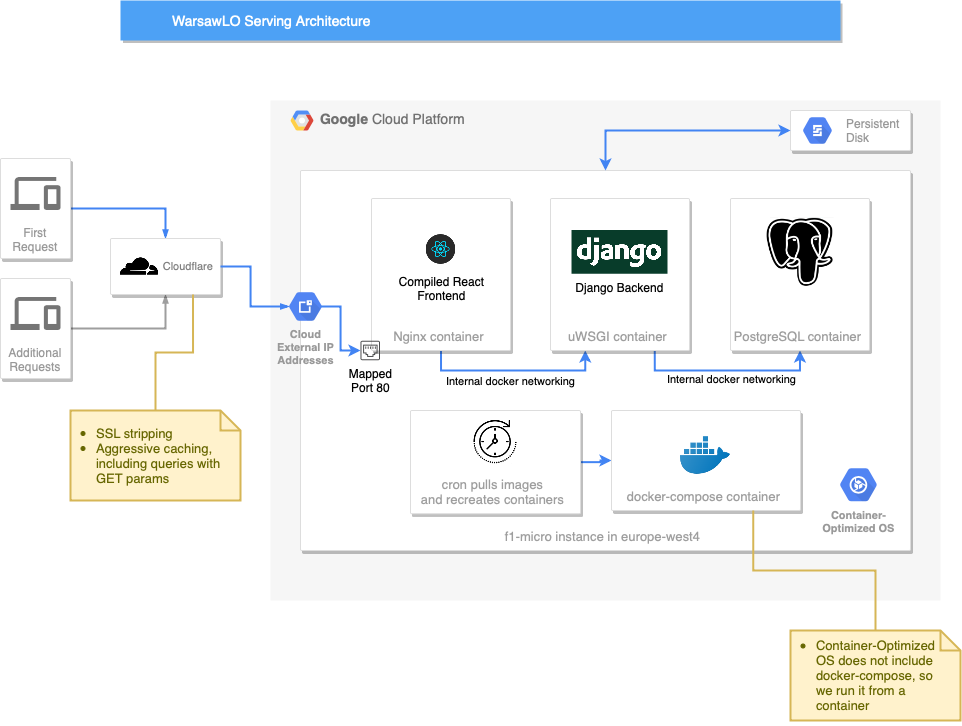
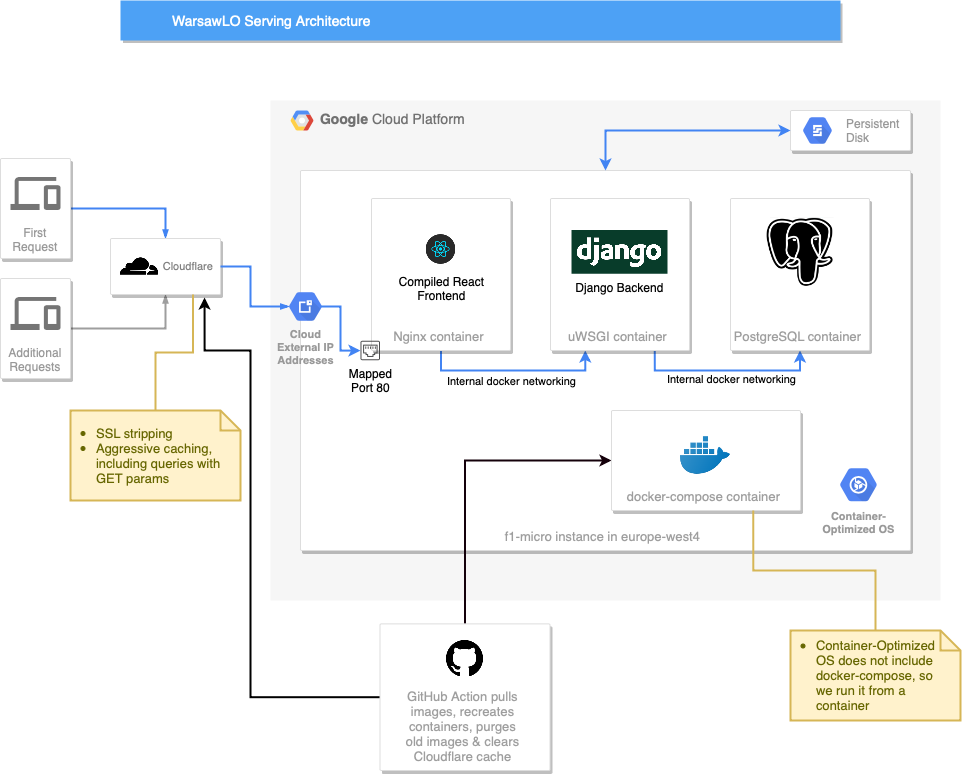
Update README and the diagram

diff --git a/README.md b/README.md
@@ -6,11 +6,12 @@ Goals:
 * Minimum cost
 * Minimum maintenance
 * Survive big spikes in traffic
-* Automated deploys, at least to the test instance [WIP]
+* Automated deploys, at least to the test instance
 * Currently stateless, but has to be able to support statefulness (only in db) in the future
 
 Non goals:
 * Automated bootstrapping: initial setup won't happen that often
+* **Automated updates of infra code (they don't happen often)**
 
 ## Architecture Overview
 
@@ -30,7 +31,8 @@ Components:
 
 ### CI
 * Images are automatically built and uploaded to docker hub using GitHub Actions.
-* [WIP] A cron job on the gcp machine pulls new images and recreates containers every `n` minutes.
+* The same action handles pulling and restarting containers on the test deployment +
+  cloudflare cache purge.
 
 ## Detailed setup
 
@@ -48,6 +50,10 @@ Components:
     * To update:
         * `docker run -it --rm -v /var/run/docker.sock:/var/run/docker.sock -v "$PWD:$PWD" -w="$PWD" docker/compose:1.25.5 pull`
         * `docker run -it --rm -v /var/run/docker.sock:/var/run/docker.sock -v "$PWD:$PWD" -w="$PWD" docker/compose:1.25.5 up -d`
+* Create a service account, download the json key, set is as `GCE_SA_KEY` secret in github. Add
+  IAM roles: `Compute OS Admin Login` and `Service Account User`.
+* Create an API token with permissions `Zone.Cache Purge`, save as `CLOUDFLARE_TOKEN` secret.
+* The rest of the secrets are self explanatory.
 
 ### Cloudflare
 * DNS -> pick a (sub)domain that points to the gcp instance external IP. Proxy status "Proxied"
